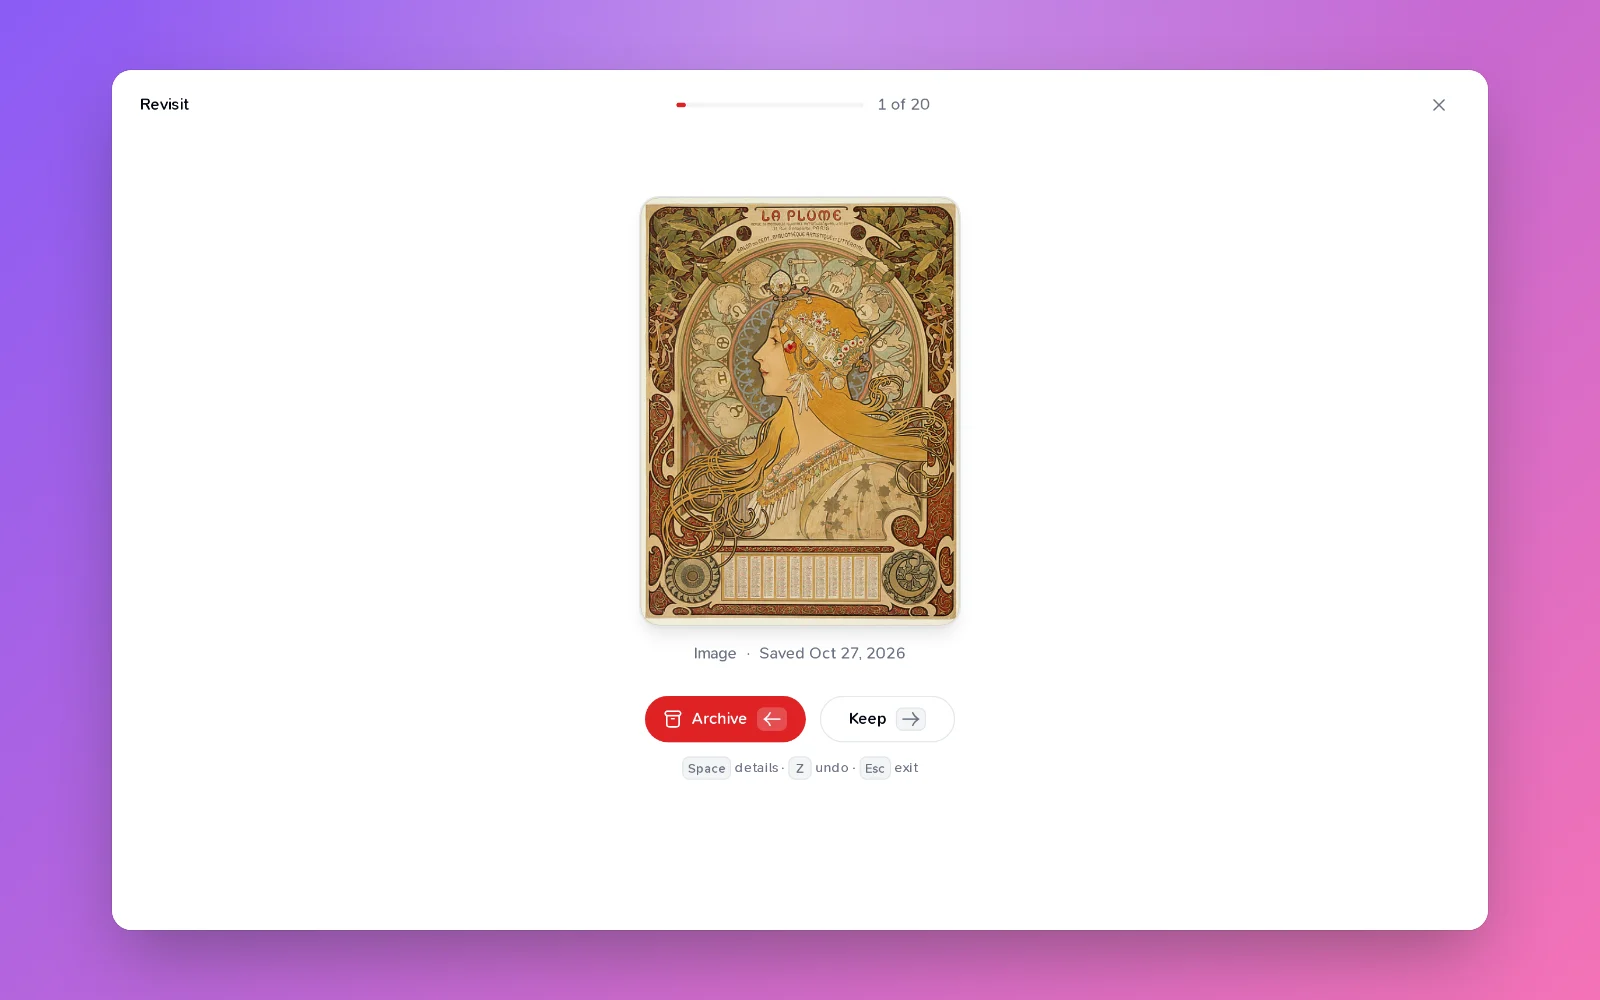
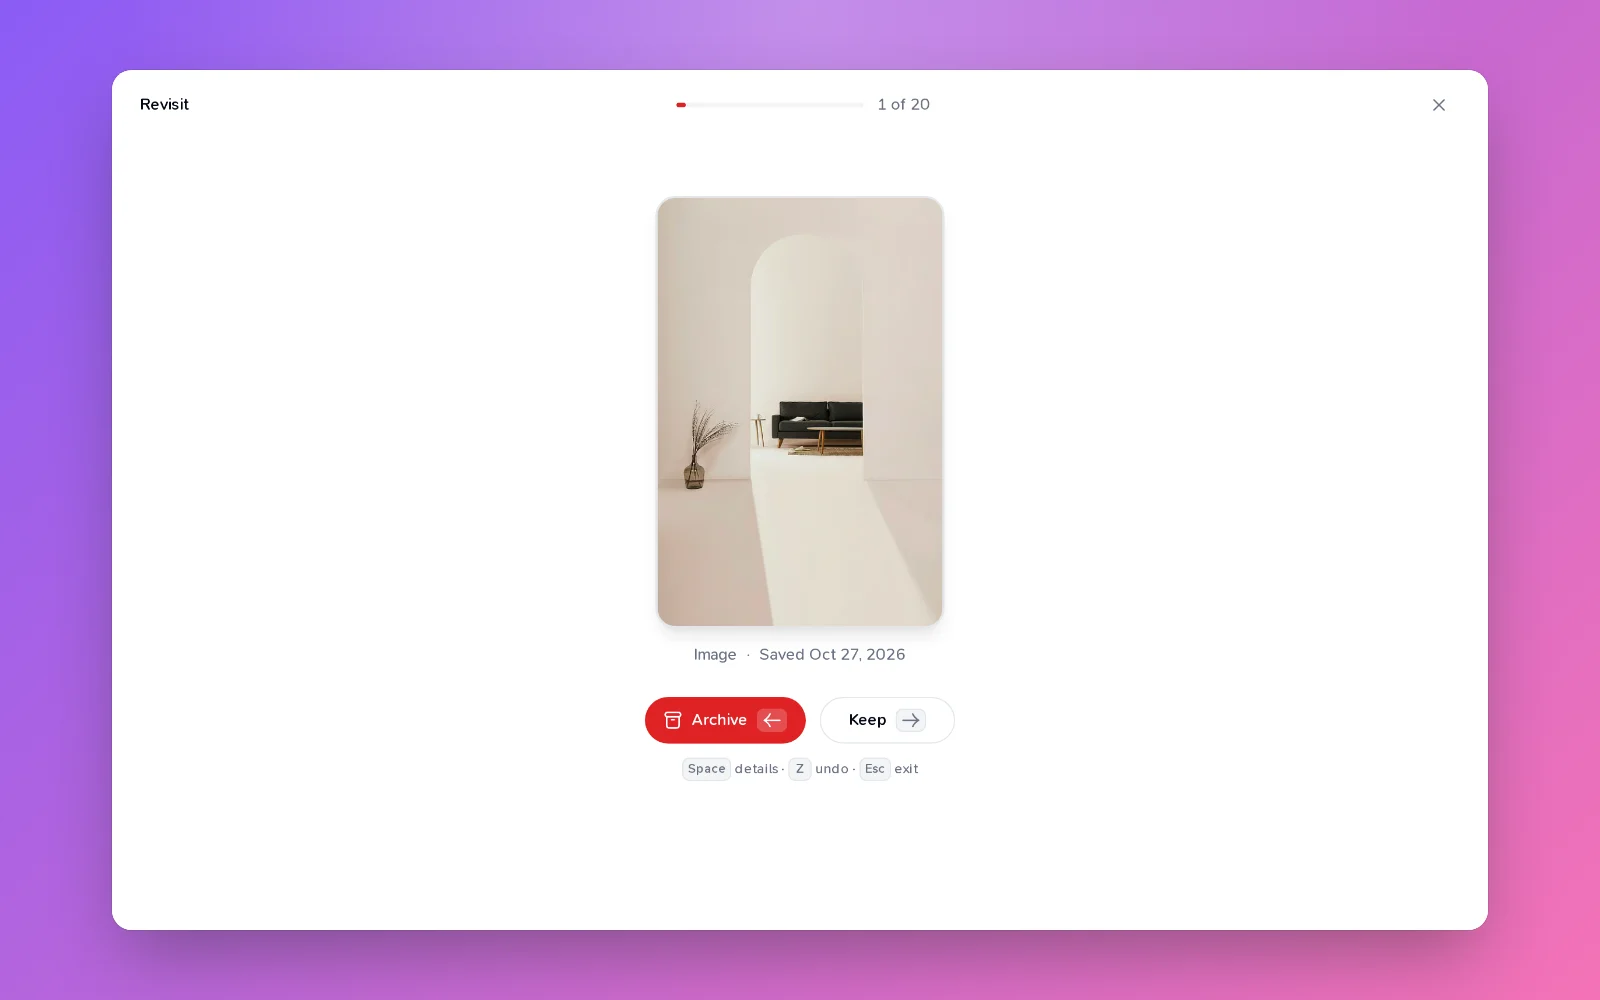
fix(docs): steady the Revisit cover capture and tighten blog image tests
- capture.ts: start Revisit from the images-only view, so its first card is
  always a photo, instead of clicking Keep until one shows. A deck with no
  photo used to click past its last card and time out.
- shots.test.ts: collect every image reference in a post and fail on any
  that isn't a `./images/` or `../docs/images/` WebP, and require a post's
  body to open with its cover rather than only its first image to be it.

Claude-Session: https://claude.ai/code/session_01WdsWDxRFyEhS7DXkoRzPhP

Changed region(s): [[0.375, 0.186, 0.625, 0.682], [0.4062, 0.682, 0.5, 0.744], [0.5312, 0.713, 0.5625, 0.744]]

diff --git a/scripts/docs-assets/shots.test.ts b/scripts/docs-assets/shots.test.ts
@@ -119,22 +119,41 @@ describe("blog images", () => {
   const posts = readdirSync(blogDir)
     .filter((file) => file.endsWith(".mdx"))
     .sort();
-  /** Every image a post shows: its own (`./images/`) or a docs one (`../docs/images/`). */
+  const sourceOf = (post: string) =>
+    readFileSync(path.join(blogDir, post), "utf8");
+  /**
+   * Every image a post shows, with where it comes from: its own
+   * (`./images/<name>.webp`), a docs one (`../docs/images/<name>.webp`), or
+   * neither, which no post may use.
+   */
   const imagesOnPost = (post: string) =>
-    [
-      ...readFileSync(path.join(blogDir, post), "utf8").matchAll(
-        /!\[([^\]]*)\]\((\.\/images|\.\.\/docs\/images)\/([^)]+)\.webp\)/g
-      ),
-    ].map(([, alt, dir, name]) => ({
-      alt,
-      blog: dir === "./images",
-      name,
-    }));
+    [...sourceOf(post).matchAll(/!\[([^\]]*)\]\(([^)\s]+)\)/g)].map(
+      ([, alt, src]) => {
+        const match = /^(\.\/images|\.\.\/docs\/images)\/([^/]+)\.webp$/.exec(
+          src
+        );
+        return { alt, blog: match?.[1] === "./images", name: match?.[2], src };
+      }
+    );
+
+  test("every image a post shows comes from the pipeline", () => {
+    const wrong = posts.flatMap((post) =>
+      imagesOnPost(post)
+        .filter(({ name }) => !name)
+        .map(({ src }) => `${post}: ${src}`)
+    );
+    expect(wrong).toEqual([]);
+  });
 
   test("every post opens with its cover, the image named after it", () => {
     const wrong = posts.filter((post) => {
-      const [first] = imagesOnPost(post);
-      return !(first?.blog && `${first.name}.mdx` === post);
+      // The first line of the body, after the frontmatter.
+      const body = sourceOf(post).split(/^---$/m).slice(2).join("---");
+      const first = body.split("\n").find((line) => line.trim());
+      const slug = post.replace(/\.mdx$/, "");
+      return !first
+        ?.trim()
+        .match(new RegExp(`^!\\[[^\\]]*\\]\\(\\./images/${slug}\\.webp\\)$`));
     });
     expect(wrong).toEqual([]);
   });
@@ -145,7 +164,8 @@ describe("blog images", () => {
     const wrong = posts.flatMap((post) =>
       imagesOnPost(post)
         .filter(
-          ({ alt, blog: own, name }) => (own ? blog : docs).get(name) !== alt
+          ({ alt, blog: own, name }) =>
+            name && (own ? blog : docs).get(name) !== alt
         )
         .map(({ name }) => `${post}: ${name}`)
     );

diff --git a/scripts/docs-assets/capture.ts b/scripts/docs-assets/capture.ts
@@ -412,19 +412,15 @@ const PREPARE: Record<string, (page: Page) => Promise<Prepared | undefined>> = {
 Object.assign(PREPARE, {
   "why-we-built-teak": (page: Page) => open(page, "/?type=image", "Everything"),
   "rediscovering-what-you-saved": async (page: Page) => {
-    await library(page);
-    await page.getByRole("button", { name: "View", exact: true }).click();
+    // Revisit deals from what's on screen, so start from images only and
+    // the first card is always a saved photo.
+    await open(page, "/?type=image", "Everything");
+    // With a type picked, the button is named after it ("View: Image").
+    await page.getByRole("button", { name: /^View\b/ }).first().click();
     await page.getByRole("menuitemradio", { name: "Revisit" }).click();
-    const keep = page.getByRole("button", { name: /^Keep/ }).first();
-    await keep.waitFor();
-    // Keep cards (which changes nothing) until a saved photo shows.
-    for (let tries = 0; tries < 25; tries += 1) {
-      await settle(page);
-      if (await page.getByText("Image", { exact: true }).count()) {
-        break;
-      }
-      await keep.click();
-    }
+    await page.getByRole("button", { name: /^Keep/ }).first().waitFor();
+    await page.getByText("Image", { exact: true }).first().waitFor();
+    await settle(page);
   },
   "search-by-meaning": (page: Page) =>
     open(page, "/?q=japanese%20prints", "Everything"),
